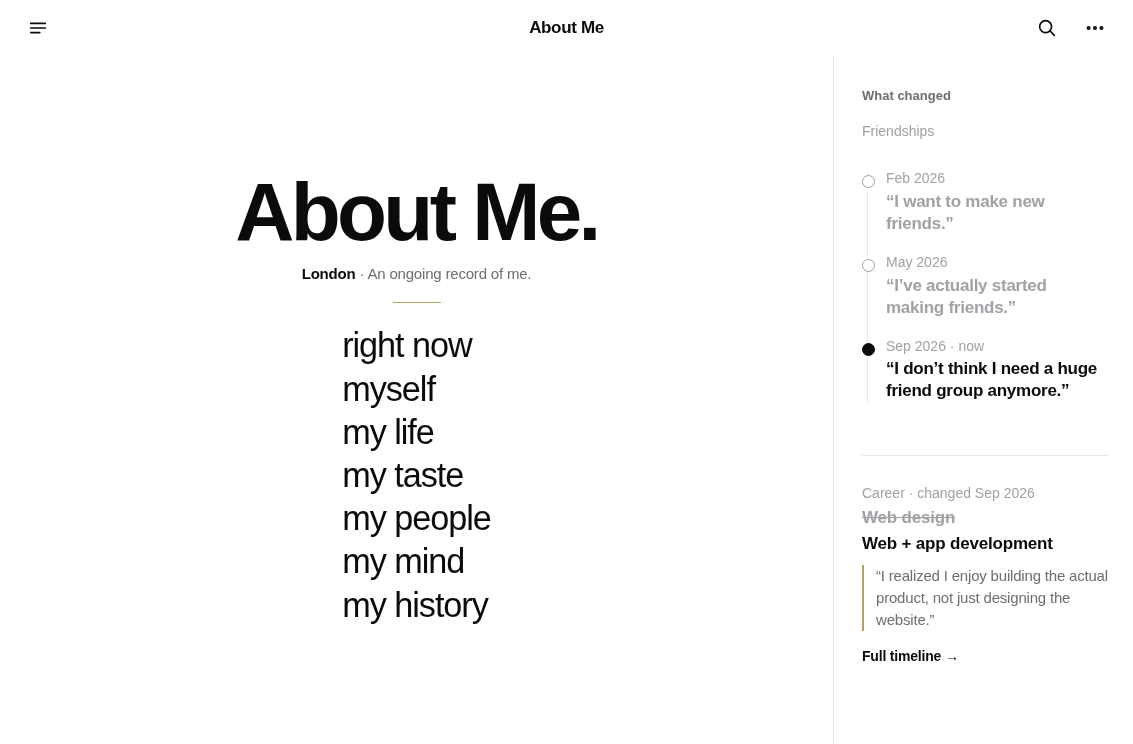
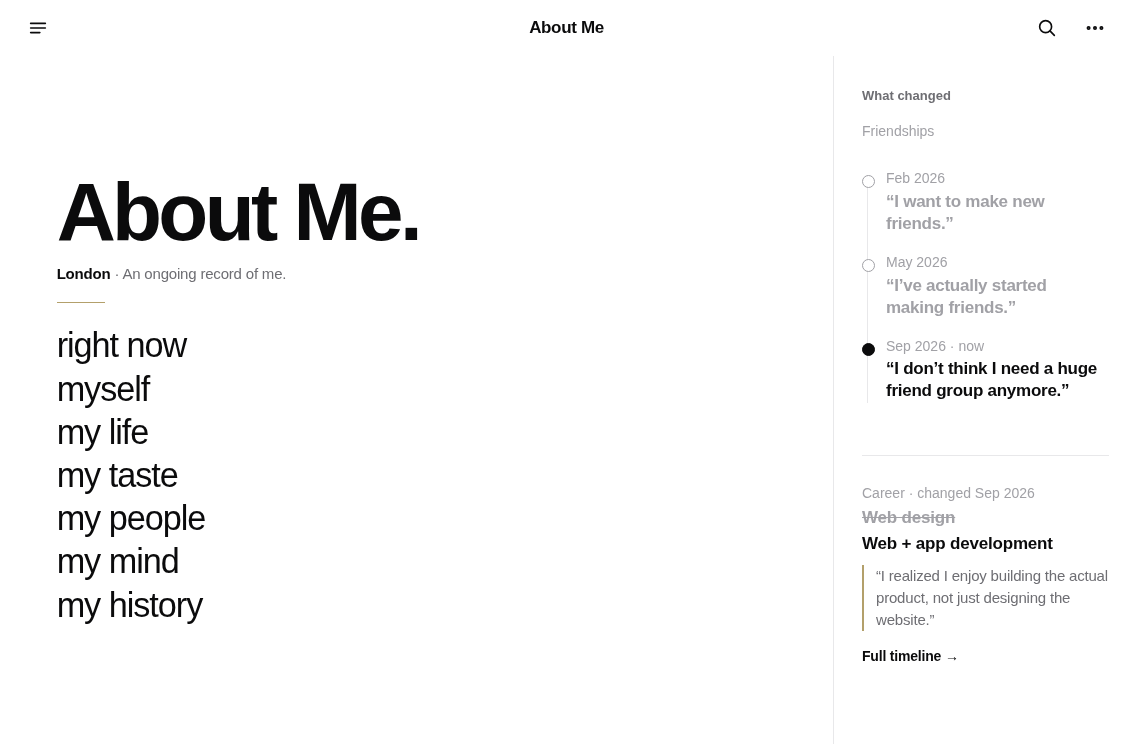
Left-align the home statement and contents list
What Changed keeps its position; only the middle of the home screen
moves to the left edge.

Claude-Session: https://claude.ai/code/session_01B2jaZ1SNYJtGLSRg6z58ic

diff --git a/index.html b/index.html
@@ -129,6 +129,10 @@ p { margin: 0; }
 
 /* Home contents: a plain launcher list, one word per line */
 .launcher { justify-self: center; align-self: center; }
+
+/* Home statement and list sit on the left, like a phone launcher; What changed stays as it is */
+.home-page .statement { justify-items: start; text-align: left; }
+.home-page .launcher { justify-self: start; }
 .launcher ul { margin: 0; padding: 0; list-style: none; display: grid; gap: clamp(2px, .5vh, 8px); }
 .launcher a {
   display: inline-block; font: 500 clamp(34px, 4.6vh, 64px)/1.12 var(--sans); letter-spacing: -.03em;
@@ -313,7 +317,7 @@ function navHTML(current) {
 
 function homeHTML() {
   const last = thread.steps.length - 1;
-  return `<div class="home">
+  return `<div class="home home-page">
     <header class="statement">
       <h1><span>About</span> <span>Me.</span></h1>
       <p class="sub"><b>${esc(person.name)}</b> · ${esc(person.line)}</p>

diff --git a/DESIGN.md b/DESIGN.md
@@ -29,7 +29,7 @@ Note: a 1200pt canvas is wider than any real iPad (13" iPad Pro is 1032 × 1376p
 
 1. **Top bar** (56pt): Menu · About Me · Search
 2. **Statement**: **About / Me.** on two lines, centered, 800 weight, then **London** · An ongoing record of me., then a short gold hairline.
-3. **Contents list**: a plain list, like a minimal phone launcher. One lowercase word per line, 500 weight, ~34–64pt, left-aligned in a centred block, with no icons, boxes or counts: right now · myself · my life · my taste · my people · my mind · my history. Each word opens its page.
+3. **Contents list**: a plain list, like a minimal phone launcher. One lowercase word per line, 500 weight, ~34–64pt, left-aligned on the left edge of the page under the left-aligned statement, with no icons, boxes or counts: right now · myself · my life · my taste · my people · my mind · my history. Each word opens its page.
 4. **What changed.**: two lines. Friendships: first version → latest version (3 versions). Career: ~~Web design~~ → Web + app development.
 
 ## 3. Landscape home: "the archive" (one screen)
